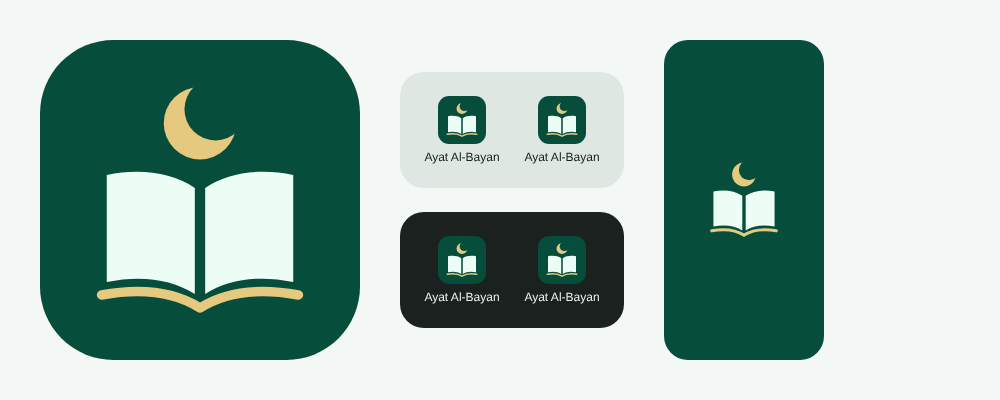
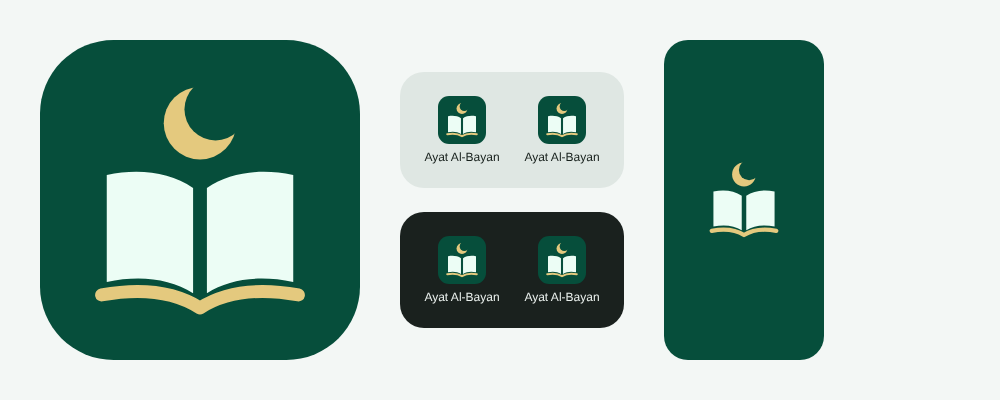
Family sign-in/splash: review fixes
- Staff overlay keeps exactly { opacity } (no empty transform); the scale is built
  only for the family's materialize.
- Step stage remembers each step's height, so a step that comes back mid-move
  sizes the stage again; nested stages retarget instead of restarting.
- The cover waits for GET /auth/code/status when signed out (no form popping in);
  the native splash stays until the cover's mark is drawn; the ways remount when
  the status changes (no dead end).
- Code boxes fit 360 dp phones and are hidden from screen readers; a refused code
  clears only itself; Bahrain needs its full length; the student code follows the
  server's normalizeStudentCode.
- Icon A: thicker base stroke and spine gap; the full-bleed icon.png gets a larger
  glyph.

Claude-Session: https://claude.ai/code/session_01MraYkppVvJx89b8bVX3FjV

diff --git a/packages/mobile-kit/src/ui/motion/use-stage-height.ts b/packages/mobile-kit/src/ui/motion/use-stage-height.ts
@@ -1,39 +1,42 @@
-import { useState } from 'react';
+import { useRef, useState } from 'react';
 import { Animated, type LayoutChangeEvent } from 'react-native';
 import { criticalSpring, STEP_RESPONSE_MS } from './spring';
 
-interface StageHeight {
+interface StageHeight<K extends string> {
   /** undefined until the first step is measured: the stage takes its natural height. */
   height: Animated.Value | undefined;
-  onLayout: (e: LayoutChangeEvent) => void;
+  /** onLayout of a step's layer: remembers its height; the step on screen moves the stage. */
+  measure: (step: K, onScreen: boolean) => (e: LayoutChangeEvent) => void;
+  /** A step comes on screen (useStepMotion.go): spring to its remembered height, if any. */
+  show: (step: K) => void;
 }
-
-const MOVE: Record<'snap' | 'spring', (value: Animated.Value, toValue: number) => void> = {
-  snap: (value, toValue) => {
-    value.setValue(toValue);
-  },
-  spring: (value, toValue) => {
-    Animated.spring(value, {
-      toValue,
-      ...criticalSpring(STEP_RESPONSE_MS),
-      useNativeDriver: false,
-    }).start();
-  },
-};
 
 /**
  * The staged form's height follows the step on screen: the first measure is taken as is, every
- * later one springs (critically damped; Reduce Motion: set at once). Height cannot run on the
- * native driver, so this value is the JS one, apart from the steps' opacity / slide.
+ * later one springs (critically damped; Reduce Motion: set at once). Each step's height is kept,
+ * so a step that comes back (an interrupted move, its view kept) still sizes the stage. A new
+ * spring takes over from the running one where it is (nested stages stay smooth). Height cannot
+ * run on the native driver, so this is a JS value, like the steps' move it goes with.
  */
-export function useStageHeight(still: boolean): StageHeight {
+export function useStageHeight<K extends string>(still: boolean): StageHeight<K> {
   const [value] = useState(() => new Animated.Value(0));
   const [known, setKnown] = useState(false);
-  const onLayout = (e: LayoutChangeEvent) => {
-    const toValue = e.nativeEvent.layout.height;
+  const sizes = useRef(new Map<K, number>());
+  const moveTo = (toValue: number) => {
+    const spring = { toValue, ...criticalSpring(STEP_RESPONSE_MS), useNativeDriver: false };
+    const snap = !known || still;
     setKnown(true);
-    value.stopAnimation();
-    MOVE[!known || still ? 'snap' : 'spring'](value, toValue);
+    if (snap) value.setValue(toValue);
+    else Animated.spring(value, spring).start();
   };
-  return { height: known ? value : undefined, onLayout };
+  const measure = (step: K, onScreen: boolean) => (e: LayoutChangeEvent) => {
+    const size = e.nativeEvent.layout.height;
+    sizes.current.set(step, size);
+    if (onScreen) moveTo(size);
+  };
+  const show = (step: K) => {
+    const size = sizes.current.get(step);
+    if (size !== undefined) moveTo(size);
+  };
+  return { height: known ? value : undefined, measure, show };
 }

diff --git a/packages/mobile-kit/src/ui/motion/StepStage.test.tsx b/packages/mobile-kit/src/ui/motion/StepStage.test.tsx
@@ -6,6 +6,7 @@ import { useStepMotion } from './use-step-motion';
 
 // docs/50 §5 «Motion»: steps move on a critically damped spring (Reduce Motion: a cross-fade), the
 // leaving step goes out the way the new one came in, and going back mid-move is fine.
+jest.useFakeTimers(); // nothing settles unless a test moves the clock
 const spring = jest.spyOn(Animated, 'spring');
 const timing = jest.spyOn(Animated, 'timing');
 const hidden = { includeHiddenElements: true };
@@ -47,13 +48,15 @@ test('forward: the new step comes in on a critical spring, the old one leaves hi
 test('back mid-move: the first step returns, the second leaves', async () => {
   await render(<Harness still={false} />);
   await fireEvent.press(screen.getByText('next'));
+  await act(async () => {
+    jest.advanceTimersByTime(80); // part of the way in
+  });
   await fireEvent.press(screen.getByText('back'));
   expect(screen.getByText('one')).toBeOnTheScreen();
   expect(screen.getByTestId('step-leaving', hidden)).toHaveTextContent('two');
 });
 
 test('Reduce Motion: a cross-fade (timing, no slide); the old step is gone once it settles', async () => {
-  jest.useFakeTimers();
   await render(<Harness still />);
   await fireEvent.press(screen.getByText('next'));
   expect(spring).not.toHaveBeenCalled();
@@ -62,5 +65,23 @@ test('Reduce Motion: a cross-fade (timing, no slide); the old step is gone once 
     jest.advanceTimersByTime(1000);
   });
   expect(screen.queryByTestId('step-leaving', hidden)).toBeNull();
-  jest.useRealTimers();
+});
+
+test('the height follows the step on screen, also one that comes back mid-move', async () => {
+  const layout = (text: string, height: number) =>
+    fireEvent(screen.getByText(text, hidden).parent ?? screen.getByText(text), 'layout', {
+      nativeEvent: { layout: { height } },
+    });
+  await render(<Harness still={false} />);
+  await layout('one', 100);
+  expect(screen.getByTestId('step-stage')).toHaveStyle({ height: 100 });
+  await fireEvent.press(screen.getByText('next'));
+  await layout('two', 200);
+  const heights = () => spring.mock.calls.map(([, c]) => c.toValue).filter((v) => v !== 1);
+  expect(heights().at(-1)).toBe(200);
+  await act(async () => {
+    jest.advanceTimersByTime(80);
+  });
+  await fireEvent.press(screen.getByText('back'));
+  expect(heights().at(-1)).toBe(100);
 });

diff --git a/packages/mobile-kit/src/ui/startup/StartupOverlay.tsx b/packages/mobile-kit/src/ui/startup/StartupOverlay.tsx
@@ -41,11 +41,19 @@ const LEAVE: Record<Leave, Run> = {
 const leaveOf = (branded: boolean, still: boolean): Leave =>
   branded && !still ? 'materialize' : 'fade';
 
-/** The cover's opacity, and while it materializes its growth (1 → 1.08 as it clears). */
-function coverMotion(opacity: Animated.Value, leave: Leave) {
-  const scale = opacity.interpolate({ inputRange: [0, 1], outputRange: [OPEN_SCALE, 1] });
-  return { opacity, transform: leave === 'materialize' ? [{ scale }] : [] };
+/** The cover's opacity (the staff cover: that alone); a materializing one also grows. */
+interface CoverStyle {
+  opacity: Animated.Value;
+  transform?: { scale: Animated.AnimatedInterpolation<number> }[];
 }
+
+const COVER: Record<Leave, (opacity: Animated.Value) => CoverStyle> = {
+  fade: (opacity) => ({ opacity }),
+  materialize: (opacity) => {
+    const scale = opacity.interpolate({ inputRange: [0, 1], outputRange: [OPEN_SCALE, 1] });
+    return { opacity, transform: [{ scale }] };
+  },
+};
 
 interface StartupOverlayProps {
   /** Fonts, language and the session gate are settled: the real screen is mounted underneath. */
@@ -83,7 +91,7 @@ export function StartupOverlay({ ready, onRetry, fontsLoaded, brand }: StartupOv
   return (
     <Animated.View
       pointerEvents={ready ? 'none' : 'auto'}
-      style={[StyleSheet.absoluteFill, coverMotion(opacity, leave)]}
+      style={[StyleSheet.absoluteFill, COVER[leave](opacity)]}
     >
       {brand ? (
         <BrandStartupScreen brand={brand} mode={mode} onRetry={onRetry} fontsLoaded={fontsLoaded} />

diff --git a/packages/mobile-kit/src/ui/motion/use-step-motion.ts b/packages/mobile-kit/src/ui/motion/use-step-motion.ts
@@ -2,6 +2,7 @@ import { useState } from 'react';
 import { Animated } from 'react-native';
 import { motion as timing } from '../../theme';
 import { criticalSpring, STEP_RESPONSE_MS } from './spring';
+import { useStageHeight } from './use-stage-height';
 
 export type StepDirection = 'forward' | 'back';
 
@@ -16,6 +17,8 @@ export interface StepMotion<K extends string> extends StepState<K> {
   /** 0 → 1 as `current` comes in and `previous` goes out along the same path. */
   progress: Animated.Value;
   go: (next: K, direction?: StepDirection) => void;
+  /** The stage's height (useStageHeight): StepStage draws it and measures each layer. */
+  stage: ReturnType<typeof useStageHeight<K>>;
 }
 
 /**
@@ -45,16 +48,18 @@ export function useStepMotion<K extends string>(initial: K, still: boolean): Ste
     previous: null,
     direction: 'forward',
   });
+  const stage = useStageHeight<K>(still);
   const settle = () => setState((s) => ({ ...s, previous: null }));
   const go = (next: K, direction: StepDirection = 'forward') => {
     if (next === state.current) return;
     progress.stopAnimation((at) => {
       progress.setValue(next === state.previous ? 1 - at : 0);
       setState({ current: next, previous: state.current, direction });
+      stage.show(next);
       RUN[still ? 'still' : 'spring'](progress).start(({ finished }) =>
         finished ? settle() : undefined,
       );
     });
   };
-  return { ...state, progress, go };
+  return { ...state, progress, go, stage };
 }

diff --git a/packages/mobile-kit/src/ui/motion/StepStage.tsx b/packages/mobile-kit/src/ui/motion/StepStage.tsx
@@ -1,6 +1,5 @@
 import type { ReactNode } from 'react';
 import { Animated, I18nManager } from 'react-native';
-import { useStageHeight } from './use-stage-height';
 import type { StepMotion } from './use-step-motion';
 
 /** How far a step slides on its way in or out (pt); 0 under Reduce Motion (a cross-fade). */
@@ -19,7 +18,7 @@ interface StepStageProps<K extends string> {
  * step takes no touches and is hidden from screen readers.
  */
 export function StepStage<K extends string>({ motion, render, still }: StepStageProps<K>) {
-  const stage = useStageHeight(still);
+  const { stage } = motion;
   const reading = I18nManager.isRTL ? -1 : 1;
   const way = motion.direction === 'forward' ? 1 : -1;
   const shift = still ? 0 : SLIDE * reading * way;
@@ -33,6 +32,7 @@ export function StepStage<K extends string>({ motion, render, still }: StepStage
         <Animated.View
           key={motion.previous}
           testID="step-leaving"
+          onLayout={stage.measure(motion.previous, false)}
           pointerEvents="none"
           accessibilityElementsHidden
           importantForAccessibility="no-hide-descendants"
@@ -50,7 +50,7 @@ export function StepStage<K extends string>({ motion, render, still }: StepStage
       )}
       <Animated.View
         key={motion.current}
-        onLayout={stage.onLayout}
+        onLayout={stage.measure(motion.current, true)}
         style={{ opacity: p, transform: [{ translateX: enter }] }}
       >
         {render(motion.current)}

diff --git a/apps/family/src/sign-in/whatsapp/CodeBoxes.tsx b/apps/family/src/sign-in/whatsapp/CodeBoxes.tsx
@@ -15,8 +15,9 @@ const BOXES = Array.from({ length: CODE_LENGTH }, (_, i) => i);
 
 /**
  * The one-time code as six boxes (docs/50 §4). One real input lies over them, nearly invisible:
- * it takes the keyboard, a long-press «لصق» of WhatsApp's «copy code» and the OS's one-time-code
- * autofill, so a paste fills every box at once. The boxes only draw it, LTR in both languages.
+ * it takes the keyboard, a long-press «لصق» of WhatsApp's «copy code» (or the keyboard's clipboard
+ * chip), so a paste fills every box at once; the OS's code autofill where it offers one. The
+ * boxes only draw it (hidden from screen readers), LTR in both languages.
  */
 export function CodeBoxes({ value, onChange, refused }: CodeBoxesProps) {
   const [focused, setFocused] = useState(true);
@@ -27,7 +28,11 @@ export function CodeBoxes({ value, onChange, refused }: CodeBoxesProps) {
   };
   return (
     <View style={{ direction: 'ltr' }}>
-      <View style={{ flexDirection: 'row', justifyContent: 'center', gap: 8 }}>
+      <View
+        accessibilityElementsHidden
+        importantForAccessibility="no-hide-descendants"
+        style={{ flexDirection: 'row', justifyContent: 'center', gap: 8 }}
+      >
         {BOXES.map((i) => (
           <CodeBox key={i} digit={value[i] ?? ''} look={look(i)} />
         ))}

diff --git a/packages/mobile-kit/src/ui/startup/BrandStartupScreen.tsx b/packages/mobile-kit/src/ui/startup/BrandStartupScreen.tsx
@@ -10,7 +10,7 @@ import type { StartupMode } from './startup-mode';
 import { StartupStatus } from './StartupStatus';
 import { useStartupStage } from './use-startup-stage';
 
-/** The native splash's image at its size, in the window's exact centre; the screen's one label. */
+/** The native splash's image at its size, in the window's exact centre, with the busy label. */
 function CentredMark({ brand }: { brand: StartupBrand }) {
   const size = brand.markSize;
   return (
@@ -24,6 +24,7 @@ function CentredMark({ brand }: { brand: StartupBrand }) {
         testID="startup-mark"
         source={brand.mark}
         resizeMode="contain"
+        onLoadEnd={brand.onShown}
         style={{ width: size, height: size }}
       />
     </View>
@@ -54,8 +55,10 @@ export function BrandStartupScreen(props: BrandStartupScreenProps) {
   const { stage, restart } = useStartupStage(mode);
   const [shown] = useState(() => new Animated.Value(0));
   const font = (family: string) => (fontsLoaded ? family : undefined);
-  const reveal = () =>
+  const reveal = () => {
+    brand.onShown?.();
     Animated.timing(shown, { toValue: 1, duration: motion.base, useNativeDriver: true }).start();
+  };
   const retry = () => {
     restart();
     onRetry();

diff --git a/apps/family/src/sign-in/password/student-code.ts b/apps/family/src/sign-in/password/student-code.ts
@@ -1,15 +1,16 @@
+import { asciiDigits, normalizeStudentCode } from '@ab/shared';
 import { t } from '@ab/mobile-kit';
 
-/** students.code: «AB-» and digits (rule 7: generated, never typed by staff), any letter case. */
-const STUDENT_CODE = /^AB-\d{3,}$/i;
-/** Still on its way to a whole code («A», «AB-», «AB-12»): nothing to say yet. */
-const PARTIAL = /^(A|AB|AB-|AB-\d{1,2})$/i;
+/** Still on its way to a whole code («A», «AB», «AB-»): nothing to say yet. */
+const PARTIAL = /^(A|AB|AB-)$/i;
 
 /**
  * While the student code is typed (docs/50 §5: inline validation): null while it is, or may still
- * become, a student code; else the line that says what one looks like.
+ * become, a student code (the server's own rule, normalizeStudentCode: any case, with or without
+ * the dash, Arabic digits folded); else the line that says what one looks like.
  */
 export function checkStudentCode(typed: string): string | null {
-  const ok = STUDENT_CODE.test(typed) || PARTIAL.test(typed);
+  const plain = asciiDigits(typed).replace(/\s/g, '');
+  const ok = normalizeStudentCode(plain) !== null || PARTIAL.test(plain);
   return ok ? null : t.familyApp.signIn.studentCodeBad;
 }

diff --git a/apps/family/src/sign-in/whatsapp/CodeStep.tsx b/apps/family/src/sign-in/whatsapp/CodeStep.tsx
@@ -18,7 +18,8 @@ export function CodeStep({ sign }: { sign: WhatsAppSignIn }) {
   const [code, setCode] = useState('');
   const verify = async (next: string) => {
     const refused = await sign.verify(next);
-    if (refused !== null) setCode('');
+    // Only the refused code goes: digits typed meanwhile stay.
+    if (refused !== null) setCode((now) => (now === next ? '' : now));
   };
   const change = (next: string) => {
     setCode(next);
@@ -36,7 +37,7 @@ export function CodeStep({ sign }: { sign: WhatsAppSignIn }) {
       <AppText style={{ fontSize: type.size.sm, lineHeight: 22, color: color.ink2 }}>
         {t.familyApp.signIn.codeSentTo.replace('{phone}', to)}
       </AppText>
-      <CodeBoxes value={code} onChange={change} refused={flow.error !== null} />
+      <CodeBoxes value={code} onChange={change} refused={flow.error !== null && code === ''} />
       {flow.error ? <AuthAlert text={flow.error} /> : null}
       <Button
         label={flow.busy ? t.familyAuth.verifying : t.familyAuth.verify}

diff --git a/apps/family/src/root/FamilyRootLayout.tsx b/apps/family/src/root/FamilyRootLayout.tsx
@@ -9,6 +9,7 @@ import {
   useRootBoot,
   useTheme,
 } from '@ab/mobile-kit';
+import { useFamilyCodes } from '@/sign-in';
 import { familyBrand } from './family-brand';
 import { isFamilySignedIn } from './family-gate';
 import { useFamilyPush } from './use-family-push';
@@ -37,7 +38,10 @@ function FamilyStack({ gate, boot }: { gate: GateStatus; boot: RootBoot }) {
   const signedIn = isFamilySignedIn(gate);
   // Inside the query provider: the persisted /auth/me counts (docs/27 E2).
   const meReady = useMeReady(signedIn);
-  const ready = boot.settled && meReady;
+  // Signed out, the sign-in opens on WhatsApp or the password by GET /auth/code/status: the cover
+  // waits for it, so the first screen is whole when it materializes (no form popping in).
+  const codesKnown = useFamilyCodes() !== undefined;
+  const ready = boot.settled && meReady && (signedIn || codesKnown);
   useFamilyPush(ready && signedIn);
   return (
     <RootFrame ready={ready} fontsLoaded={boot.fontsLoaded} brand={familyBrand()}>

diff --git a/apps/family/src/sign-in/FamilySignInScreen.tsx b/apps/family/src/sign-in/FamilySignInScreen.tsx
@@ -7,13 +7,14 @@ import { useFamilyCodes } from './use-family-codes';
  * The family app's sign-in (docs/50 §4–5): the mark and wordmark, a line of welcome, then one
  * way in for guardians and students alike. The auth gate swaps this screen for home once a
  * guardian or a student is in; a staff login is refused with the inverted «wrongApp» notice.
- * Until GET /auth/code/status answers, the form waits under the header (no spinner).
+ * The root waits for GET /auth/code/status before the cover leaves, so the form is there at once;
+ * a later change of it opens the right way afresh (keyed).
  */
 export function FamilySignInScreen() {
   const codes = useFamilyCodes();
   return (
     <SignInFrame title={t.familyApp.signIn.wordmark} header={<SignInLockup />}>
-      {codes === undefined ? null : <SignInWays codes={codes} />}
+      {codes === undefined ? null : <SignInWays key={String(codes)} codes={codes} />}
     </SignInFrame>
   );
 }

diff --git a/apps/family/src/sign-in/whatsapp/CodeBox.tsx b/apps/family/src/sign-in/whatsapp/CodeBox.tsx
@@ -4,7 +4,7 @@ import { AppText, shape, type, useTheme } from '@ab/mobile-kit';
 /** rest: the 3:1 input edge; next: the box the next digit goes in; refused: the last try failed. */
 export type BoxLook = 'rest' | 'next' | 'refused';
 
-/** One box of the one-time code: 46 × 56, the digit at 23 pt; drawing only (CodeBoxes types). */
+/** One box of the one-time code (up to 52 wide, 46:56; six fit 312 pt), drawing only. */
 export function CodeBox({ digit, look }: { digit: string; look: BoxLook }) {
   const { color } = useTheme();
   const edge: Record<BoxLook, string> = {
@@ -16,8 +16,9 @@ export function CodeBox({ digit, look }: { digit: string; look: BoxLook }) {
     <View
       testID="code-box"
       style={{
-        width: 46,
-        height: 56,
+        flex: 1,
+        maxWidth: 52,
+        aspectRatio: 46 / 56,
         alignItems: 'center',
         justifyContent: 'center',
         borderRadius: shape.radius.lg,
